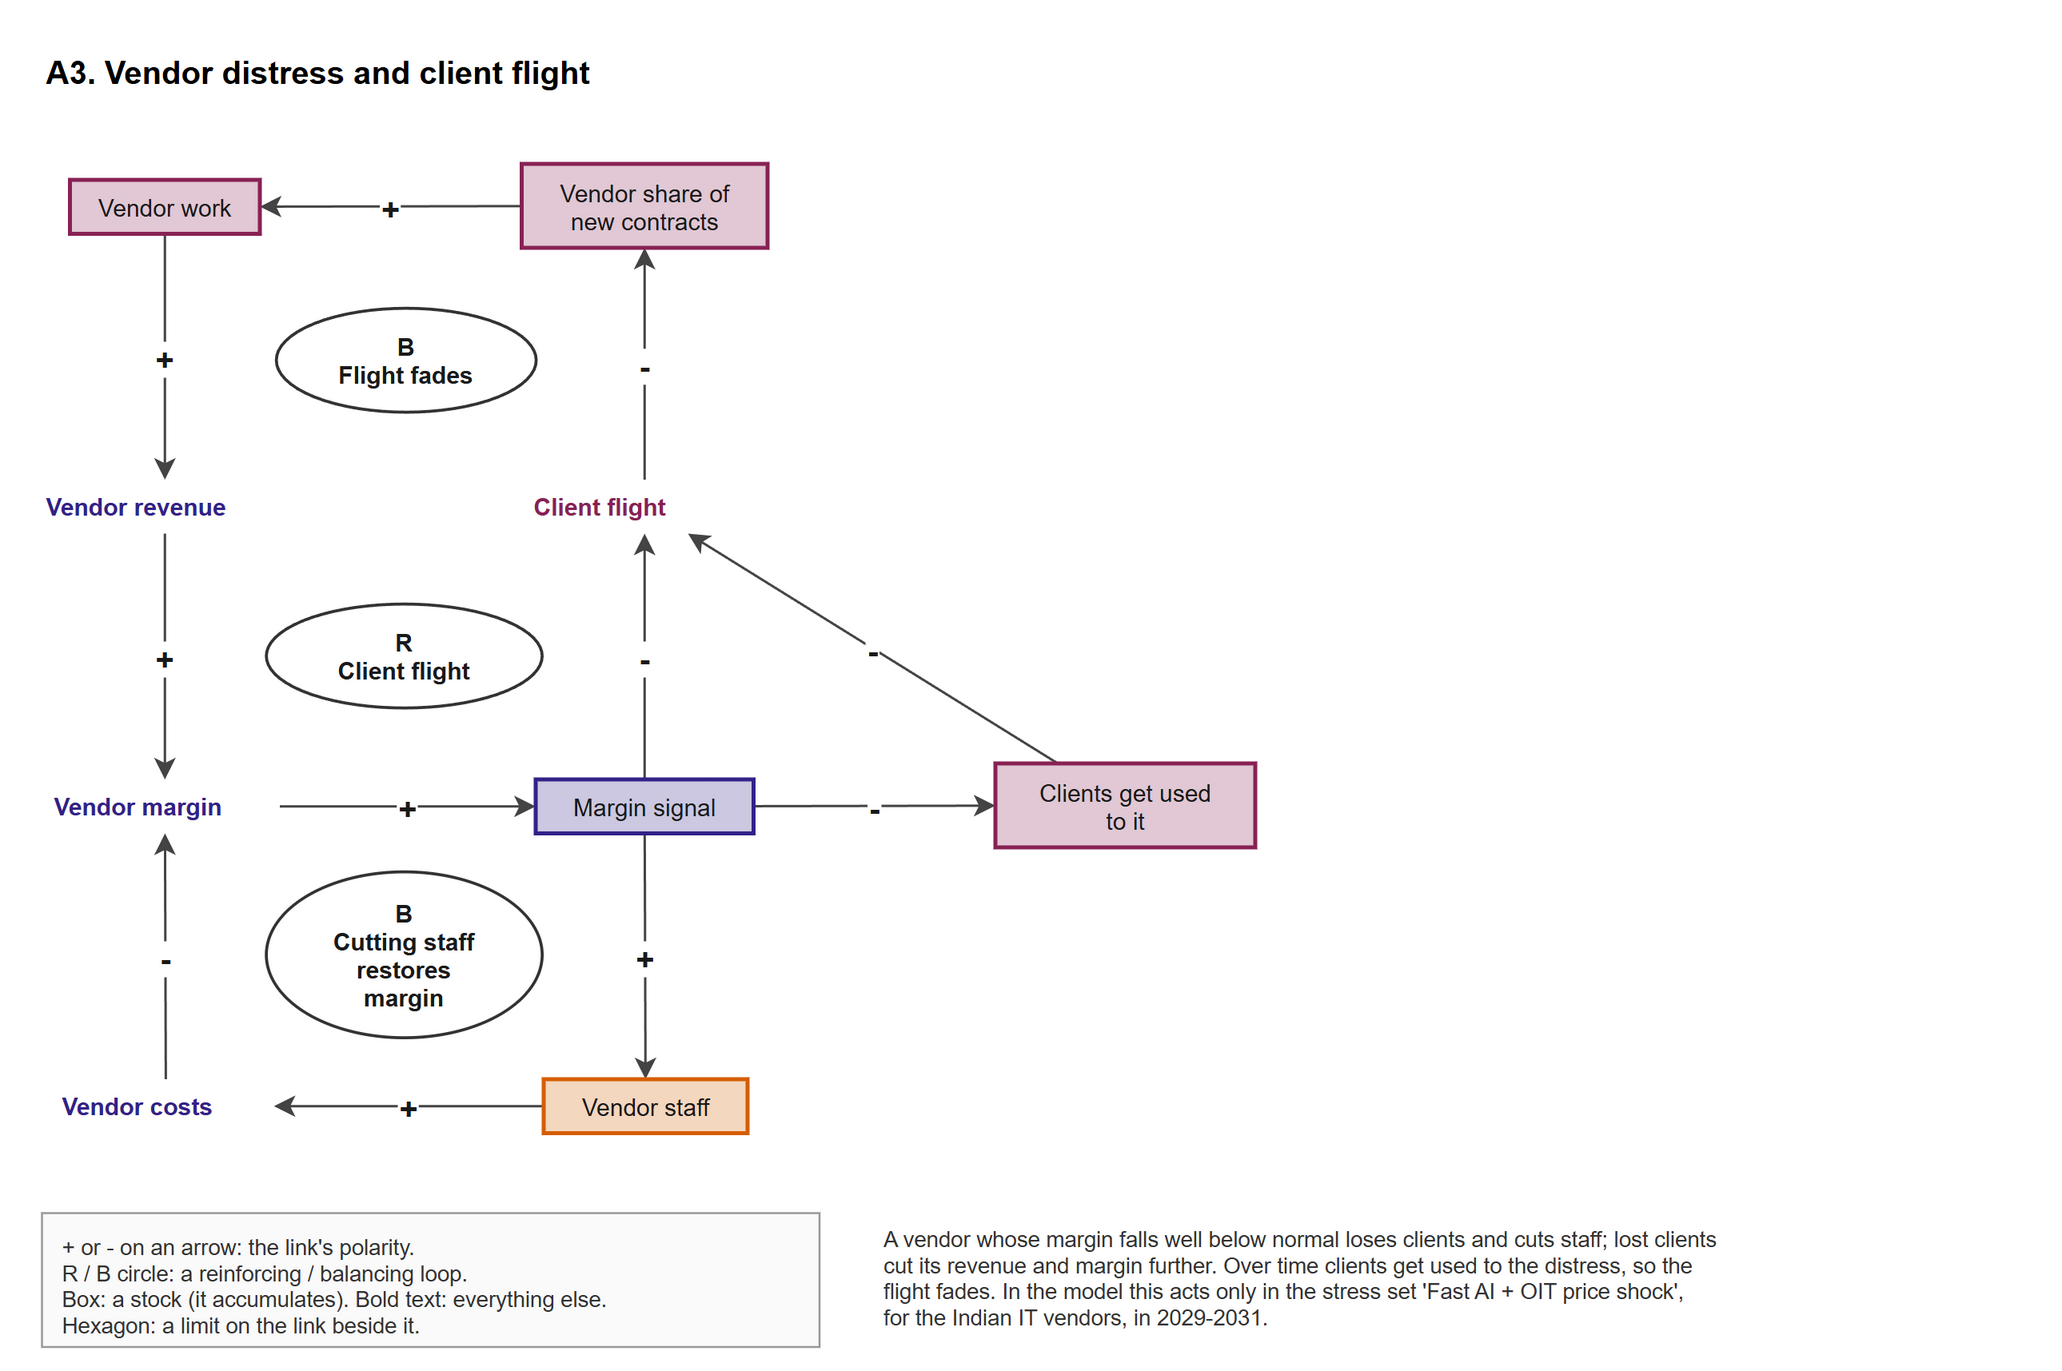
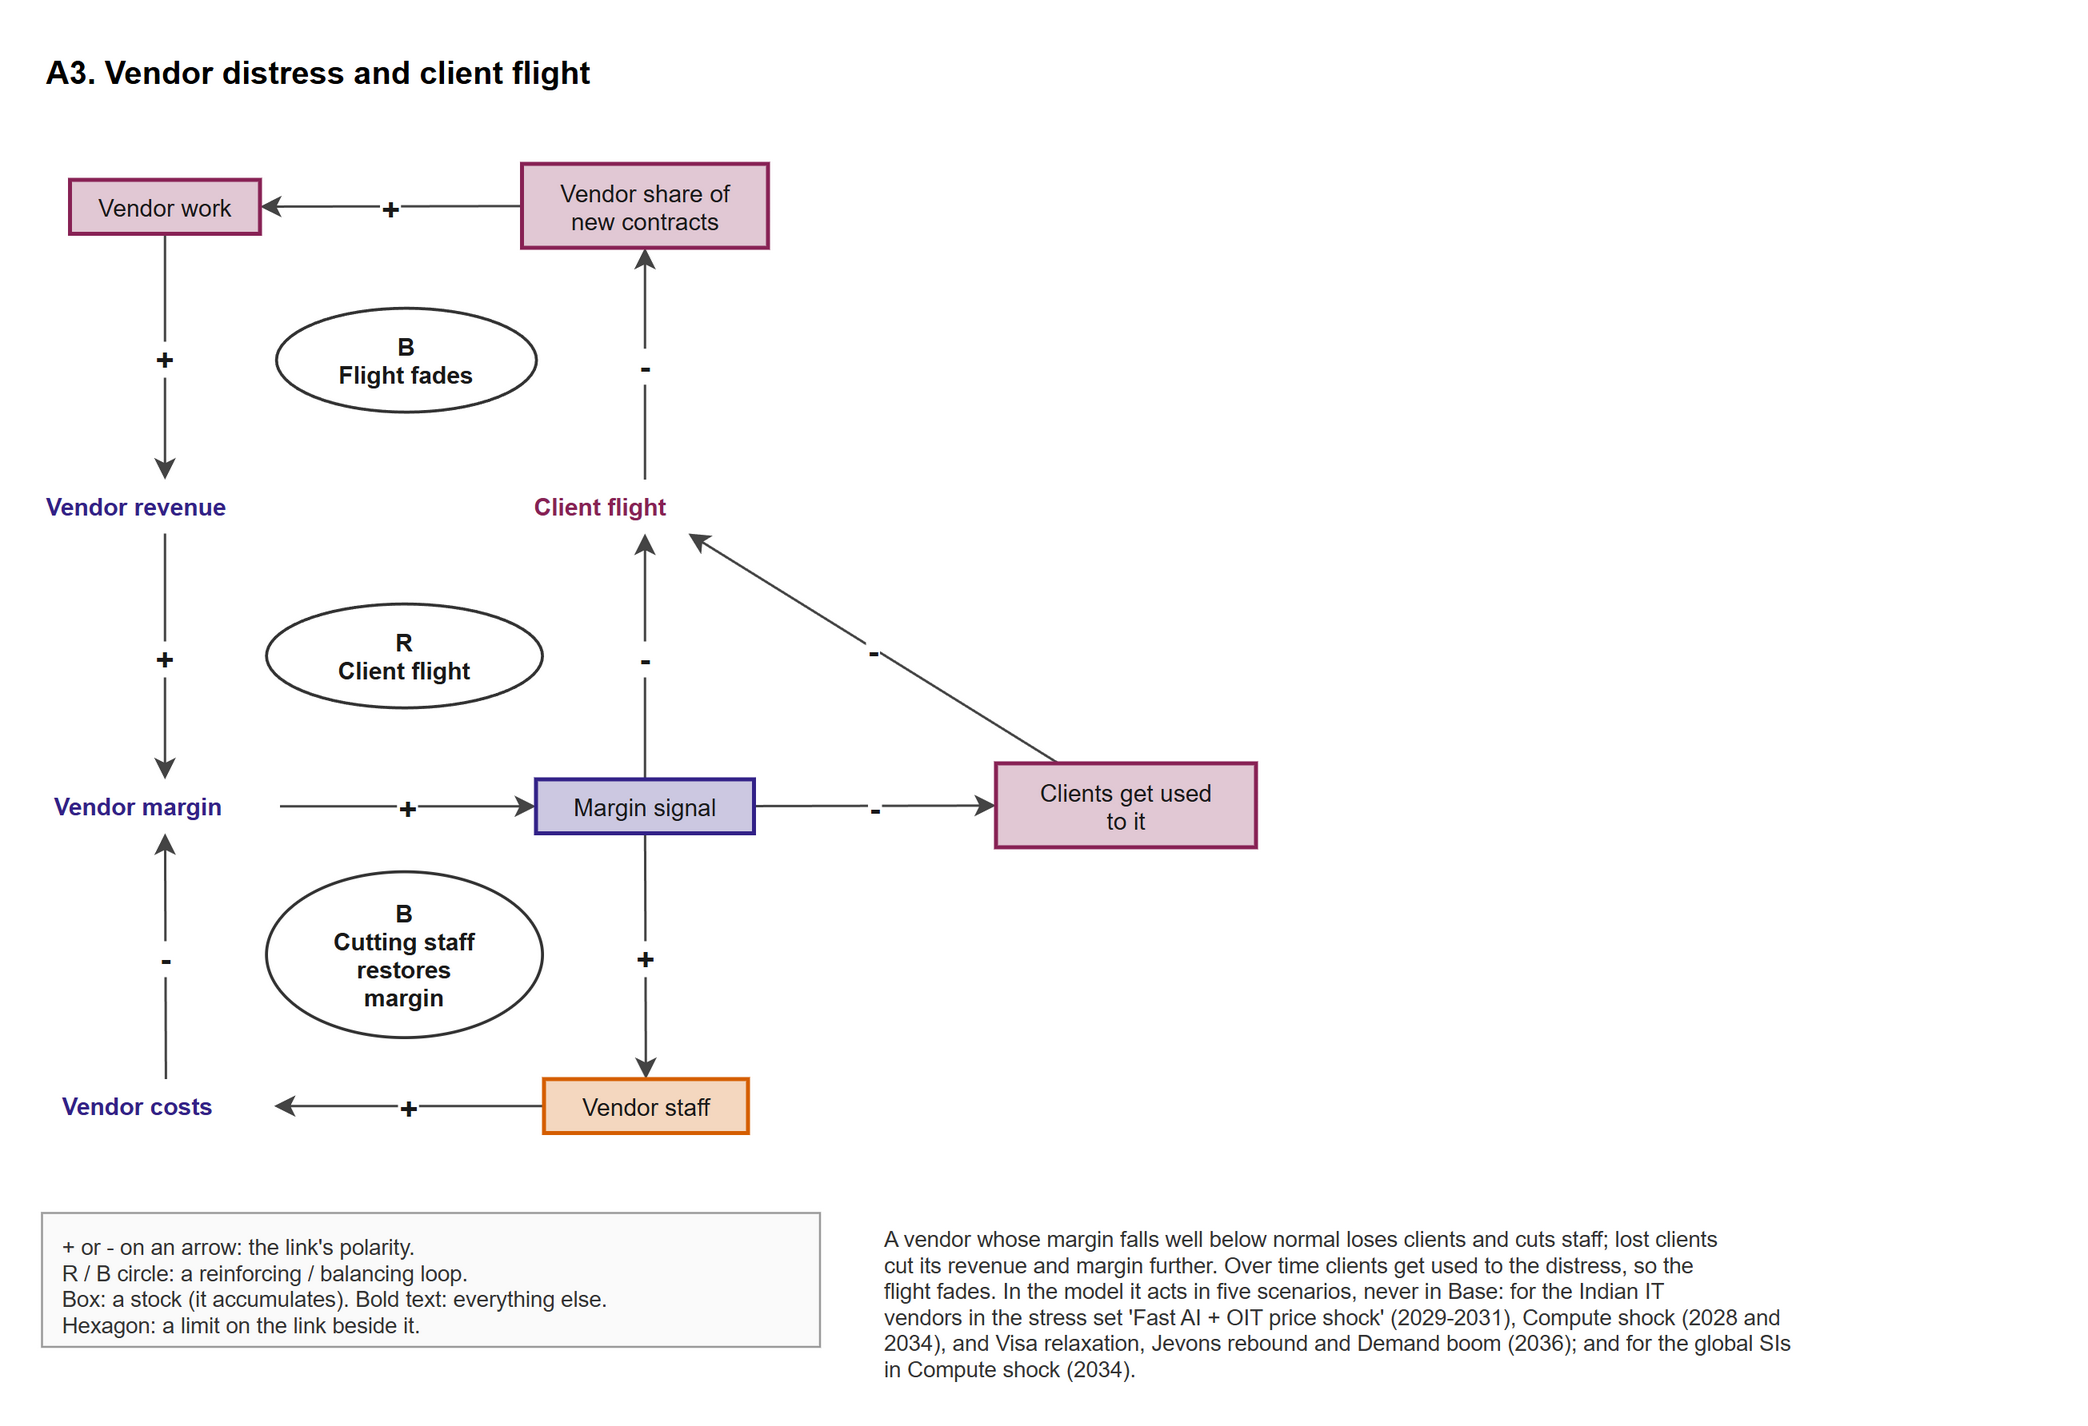
docs: name every scenario where A3's client flight acts
Addendum B. Measured ClientFlight_* on phase9 in all 15 scenarios:
flight acts in five (the stress set, Compute shock, Visa relaxation,
Jevons rebound, Demand boom), never in Base. A3's last sentence now
names each scenario, vendor type and year. A3 re-exported; manifest
and model reference regenerated. No behaviour change.

diff --git a/docs/model-reference.md b/docs/model-reference.md
@@ -68,7 +68,7 @@ _The more IT work GCCs hold, the stronger their scale advantage, and the more cl
 
 ![A3. Vendor distress and client flight](model/diagrams/svg/article-a3.svg)
 
-_A vendor whose margin falls well below normal loses clients and cuts staff; lost clients cut its revenue and margin further. Over time clients get used to the distress, so the flight fades. In the model this acts only in the stress set 'Fast AI + OIT price shock', for the Indian IT vendors, in 2029-2031._
+_A vendor whose margin falls well below normal loses clients and cuts staff; lost clients cut its revenue and margin further. Over time clients get used to the distress, so the flight fades. In the model it acts in five scenarios, never in Base: for the Indian IT vendors in the stress set 'Fast AI + OIT price shock' (2029-2031), Compute shock (2028 and 2034), and Visa relaxation, Jevons rebound and Demand boom (2036); and for the global SIs in Compute shock (2034)._
 
 #### A4. The pricing ceiling under fast AI
 
